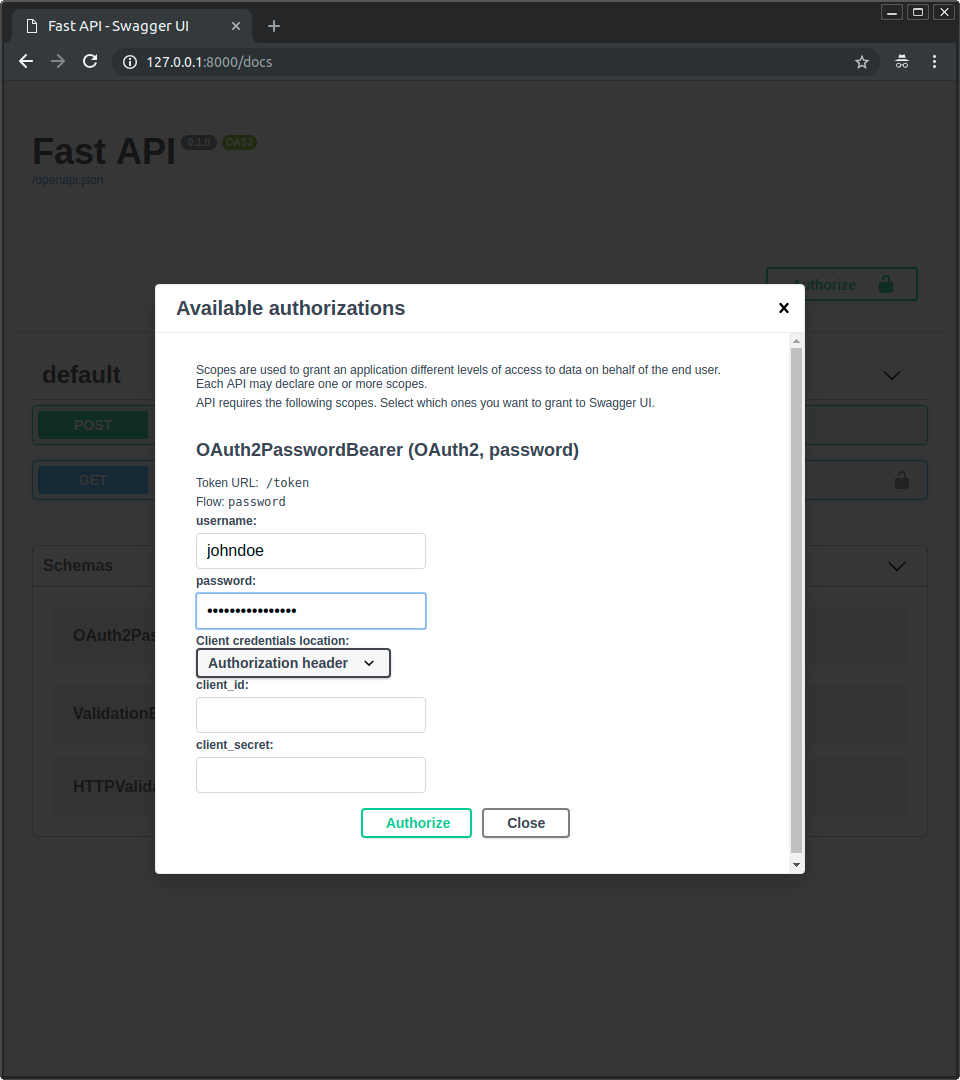
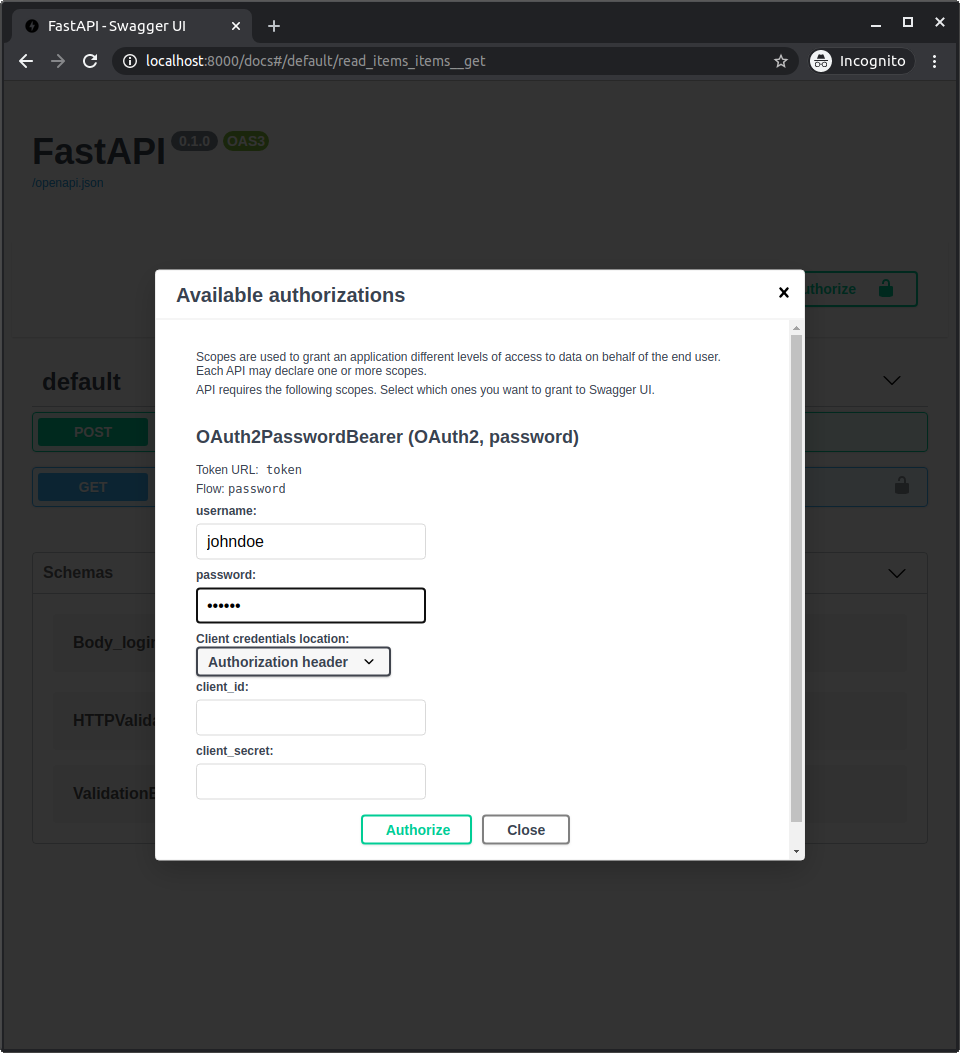
✨ Auto-generate OpenAPI servers from root_path (#1596)
* root_path included in servers object instead of path prefix

* ♻ Refactor implementation of auto-including root_path in OpenAPI servers

* 📝 Update docs and examples for Behind a Proxy, including servers

* 📝 Update Extending OpenAPI as openapi_prefix is no longer needed

* ✅ Add extra tests for root_path in servers and root_path_in_servers=False

* 🍱 Update security docs images with relative token URL

* 📝 Update security docs with relative token URL

* 📝 Update example sources with relative token URLs

* ✅ Update tests with relative tokens

diff --git a/fastapi/applications.py b/fastapi/applications.py
@@ -50,6 +50,7 @@ class FastAPI(Starlette):
         on_shutdown: Sequence[Callable] = None,
         openapi_prefix: str = "",
         root_path: str = "",
+        root_path_in_servers: bool = True,
         **extra: Dict[str, Any],
     ) -> None:
         self.default_response_class = default_response_class
@@ -71,7 +72,7 @@ class FastAPI(Starlette):
         self.title = title
         self.description = description
         self.version = version
-        self.servers = servers
+        self.servers = servers or []
         self.openapi_url = openapi_url
         self.openapi_tags = openapi_tags
         # TODO: remove when discarding the openapi_prefix parameter
@@ -83,6 +84,7 @@ class FastAPI(Starlette):
                 "https://fastapi.tiangolo.com/advanced/sub-applications/"
             )
         self.root_path = root_path or openapi_prefix
+        self.root_path_in_servers = root_path_in_servers
         self.docs_url = docs_url
         self.redoc_url = redoc_url
         self.swagger_ui_oauth2_redirect_url = swagger_ui_oauth2_redirect_url
@@ -98,7 +100,7 @@ class FastAPI(Starlette):
         self.openapi_schema: Optional[Dict[str, Any]] = None
         self.setup()
 
-    def openapi(self, openapi_prefix: str = "") -> Dict:
+    def openapi(self) -> Dict:
         if not self.openapi_schema:
             self.openapi_schema = get_openapi(
                 title=self.title,
@@ -106,7 +108,6 @@ class FastAPI(Starlette):
                 openapi_version=self.openapi_version,
                 description=self.description,
                 routes=self.routes,
-                openapi_prefix=openapi_prefix,
                 tags=self.openapi_tags,
                 servers=self.servers,
             )
@@ -114,10 +115,19 @@ class FastAPI(Starlette):
 
     def setup(self) -> None:
         if self.openapi_url:
+            server_urls = set()
+            for server_data in self.servers:
+                url = server_data.get("url")
+                if url:
+                    server_urls.add(url)
 
             async def openapi(req: Request) -> JSONResponse:
                 root_path = req.scope.get("root_path", "").rstrip("/")
-                return JSONResponse(self.openapi(root_path))
+                if root_path not in server_urls:
+                    if root_path and self.root_path_in_servers:
+                        self.servers.insert(0, {"url": root_path})
+                        server_urls.add(root_path)
+                return JSONResponse(self.openapi())
 
             self.add_route(self.openapi_url, openapi, include_in_schema=False)
         if self.openapi_url and self.docs_url:

diff --git a/tests/test_tutorial/test_behind_a_proxy/test_tutorial003.py b/tests/test_tutorial/test_behind_a_proxy/test_tutorial003.py
@@ -1,19 +1,17 @@
-from fastapi import FastAPI, Request
 from fastapi.testclient import TestClient
 
-app = FastAPI(openapi_prefix="/api/v1")
-
-
-@app.get("/app")
-def read_main(request: Request):
-    return {"message": "Hello World", "root_path": request.scope.get("root_path")}
-
+from docs_src.behind_a_proxy.tutorial003 import app
 
 client = TestClient(app)
 
 openapi_schema = {
     "openapi": "3.0.2",
     "info": {"title": "FastAPI", "version": "0.1.0"},
+    "servers": [
+        {"url": "/api/v1"},
+        {"url": "https://stag.example.com", "description": "Staging environment"},
+        {"url": "https://prod.example.com", "description": "Production environment"},
+    ],
     "paths": {
         "/app": {
             "get": {
@@ -28,7 +26,6 @@ openapi_schema = {
             }
         }
     },
-    "servers": [{"url": "/api/v1"}],
 }
 
 

diff --git a/tests/test_tutorial/test_behind_a_proxy/test_tutorial004.py b/tests/test_tutorial/test_behind_a_proxy/test_tutorial004.py
@@ -1,19 +1,16 @@
-from fastapi import FastAPI, Request
 from fastapi.testclient import TestClient
 
-app = FastAPI(openapi_prefix="/api/v1")
-
-
-@app.get("/app")
-def read_main(request: Request):
-    return {"message": "Hello World", "root_path": request.scope.get("root_path")}
-
+from docs_src.behind_a_proxy.tutorial004 import app
 
 client = TestClient(app)
 
 openapi_schema = {
     "openapi": "3.0.2",
     "info": {"title": "FastAPI", "version": "0.1.0"},
+    "servers": [
+        {"url": "https://stag.example.com", "description": "Staging environment"},
+        {"url": "https://prod.example.com", "description": "Production environment"},
+    ],
     "paths": {
         "/app": {
             "get": {
@@ -28,7 +25,6 @@ openapi_schema = {
             }
         }
     },
-    "servers": [{"url": "/api/v1"}],
 }
 
 

diff --git a/fastapi/openapi/utils.py b/fastapi/openapi/utils.py
@@ -331,7 +331,6 @@ def get_openapi(
     openapi_version: str = "3.0.2",
     description: str = None,
     routes: Sequence[BaseRoute],
-    openapi_prefix: str = "",
     tags: Optional[List[Dict[str, Any]]] = None,
     servers: Optional[List[Dict[str, Union[str, Any]]]] = None,
 ) -> Dict:
@@ -356,9 +355,7 @@ def get_openapi(
             if result:
                 path, security_schemes, path_definitions = result
                 if path:
-                    paths.setdefault(openapi_prefix + route.path_format, {}).update(
-                        path
-                    )
+                    paths.setdefault(route.path_format, {}).update(path)
                 if security_schemes:
                     components.setdefault("securitySchemes", {}).update(
                         security_schemes

diff --git a/tests/test_security_oauth2_authorization_code_bearer.py b/tests/test_security_oauth2_authorization_code_bearer.py
@@ -7,7 +7,7 @@ from fastapi.testclient import TestClient
 app = FastAPI()
 
 oauth2_scheme = OAuth2AuthorizationCodeBearer(
-    authorizationUrl="/authorize", tokenUrl="/token", auto_error=True
+    authorizationUrl="authorize", tokenUrl="token", auto_error=True
 )
 
 
@@ -42,8 +42,8 @@ openapi_schema = {
                 "type": "oauth2",
                 "flows": {
                     "authorizationCode": {
-                        "authorizationUrl": "/authorize",
-                        "tokenUrl": "/token",
+                        "authorizationUrl": "authorize",
+                        "tokenUrl": "token",
                         "scopes": {},
                     }
                 },

diff --git a/tests/test_security_oauth2_optional.py b/tests/test_security_oauth2_optional.py
@@ -11,7 +11,7 @@ app = FastAPI()
 reusable_oauth2 = OAuth2(
     flows={
         "password": {
-            "tokenUrl": "/token",
+            "tokenUrl": "token",
             "scopes": {"read:users": "Read the users", "write:users": "Create users"},
         }
     },
@@ -148,7 +148,7 @@ openapi_schema = {
                             "read:users": "Read the users",
                             "write:users": "Create users",
                         },
-                        "tokenUrl": "/token",
+                        "tokenUrl": "token",
                     }
                 },
             }

diff --git a/tests/test_security_oauth2.py b/tests/test_security_oauth2.py
@@ -9,7 +9,7 @@ app = FastAPI()
 reusable_oauth2 = OAuth2(
     flows={
         "password": {
-            "tokenUrl": "/token",
+            "tokenUrl": "token",
             "scopes": {"read:users": "Read the users", "write:users": "Create users"},
         }
     }
@@ -144,7 +144,7 @@ openapi_schema = {
                             "read:users": "Read the users",
                             "write:users": "Create users",
                         },
-                        "tokenUrl": "/token",
+                        "tokenUrl": "token",
                     }
                 },
             }

diff --git a/docs_src/extending_openapi/tutorial001.py b/docs_src/extending_openapi/tutorial001.py
@@ -9,7 +9,7 @@ async def read_items():
     return [{"name": "Foo"}]
 
 
-def custom_openapi(openapi_prefix: str):
+def custom_openapi():
     if app.openapi_schema:
         return app.openapi_schema
     openapi_schema = get_openapi(
@@ -17,7 +17,6 @@ def custom_openapi(openapi_prefix: str):
         version="2.5.0",
         description="This is a very custom OpenAPI schema",
         routes=app.routes,
-        openapi_prefix=openapi_prefix,
     )
     openapi_schema["info"]["x-logo"] = {
         "url": "https://fastapi.tiangolo.com/img/logo-margin/logo-teal.png"

diff --git a/docs_src/behind_a_proxy/tutorial004.py b/docs_src/behind_a_proxy/tutorial004.py
@@ -1,0 +1,15 @@
+from fastapi import FastAPI, Request
+
+app = FastAPI(
+    servers=[
+        {"url": "https://stag.example.com", "description": "Staging environment"},
+        {"url": "https://prod.example.com", "description": "Production environment"},
+    ],
+    root_path="/api/v1",
+    root_path_in_servers=False,
+)
+
+
+@app.get("/app")
+def read_main(request: Request):
+    return {"message": "Hello World", "root_path": request.scope.get("root_path")}

diff --git a/docs_src/behind_a_proxy/tutorial003.py b/docs_src/behind_a_proxy/tutorial003.py
@@ -1,0 +1,14 @@
+from fastapi import FastAPI, Request
+
+app = FastAPI(
+    servers=[
+        {"url": "https://stag.example.com", "description": "Staging environment"},
+        {"url": "https://prod.example.com", "description": "Production environment"},
+    ],
+    root_path="/api/v1",
+)
+
+
+@app.get("/app")
+def read_main(request: Request):
+    return {"message": "Hello World", "root_path": request.scope.get("root_path")}

diff --git a/tests/test_tutorial/test_behind_a_proxy/test_tutorial001.py b/tests/test_tutorial/test_behind_a_proxy/test_tutorial001.py
@@ -8,7 +8,7 @@ openapi_schema = {
     "openapi": "3.0.2",
     "info": {"title": "FastAPI", "version": "0.1.0"},
     "paths": {
-        "/api/v1/app": {
+        "/app": {
             "get": {
                 "summary": "Read Main",
                 "operationId": "read_main_app_get",
@@ -21,6 +21,7 @@ openapi_schema = {
             }
         }
     },
+    "servers": [{"url": "/api/v1"}],
 }
 
 

diff --git a/tests/test_tutorial/test_behind_a_proxy/test_tutorial002.py b/tests/test_tutorial/test_behind_a_proxy/test_tutorial002.py
@@ -8,7 +8,7 @@ openapi_schema = {
     "openapi": "3.0.2",
     "info": {"title": "FastAPI", "version": "0.1.0"},
     "paths": {
-        "/api/v1/app": {
+        "/app": {
             "get": {
                 "summary": "Read Main",
                 "operationId": "read_main_app_get",
@@ -21,6 +21,7 @@ openapi_schema = {
             }
         }
     },
+    "servers": [{"url": "/api/v1"}],
 }
 
 
